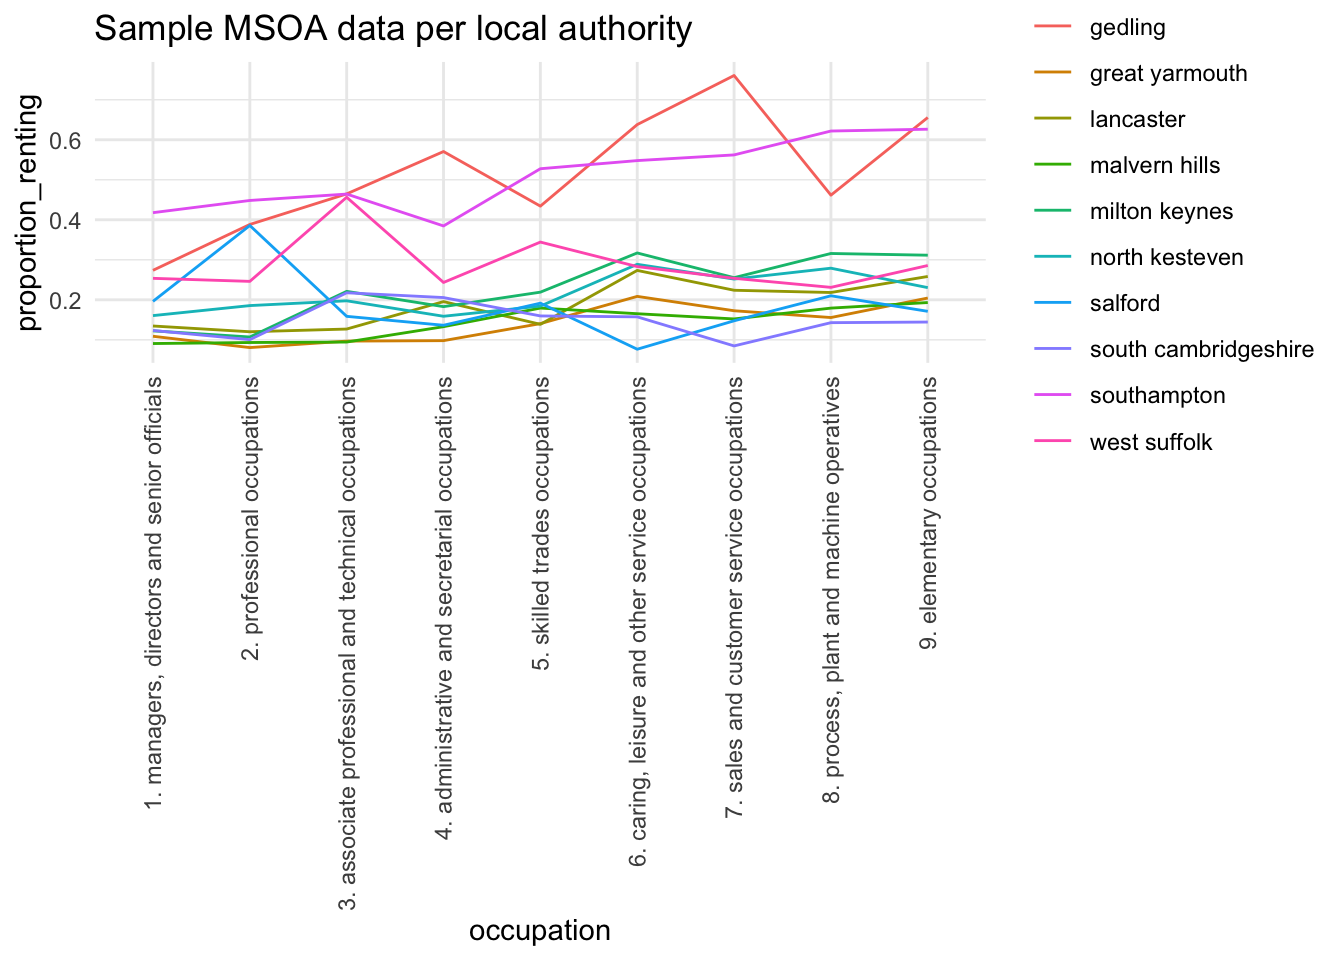
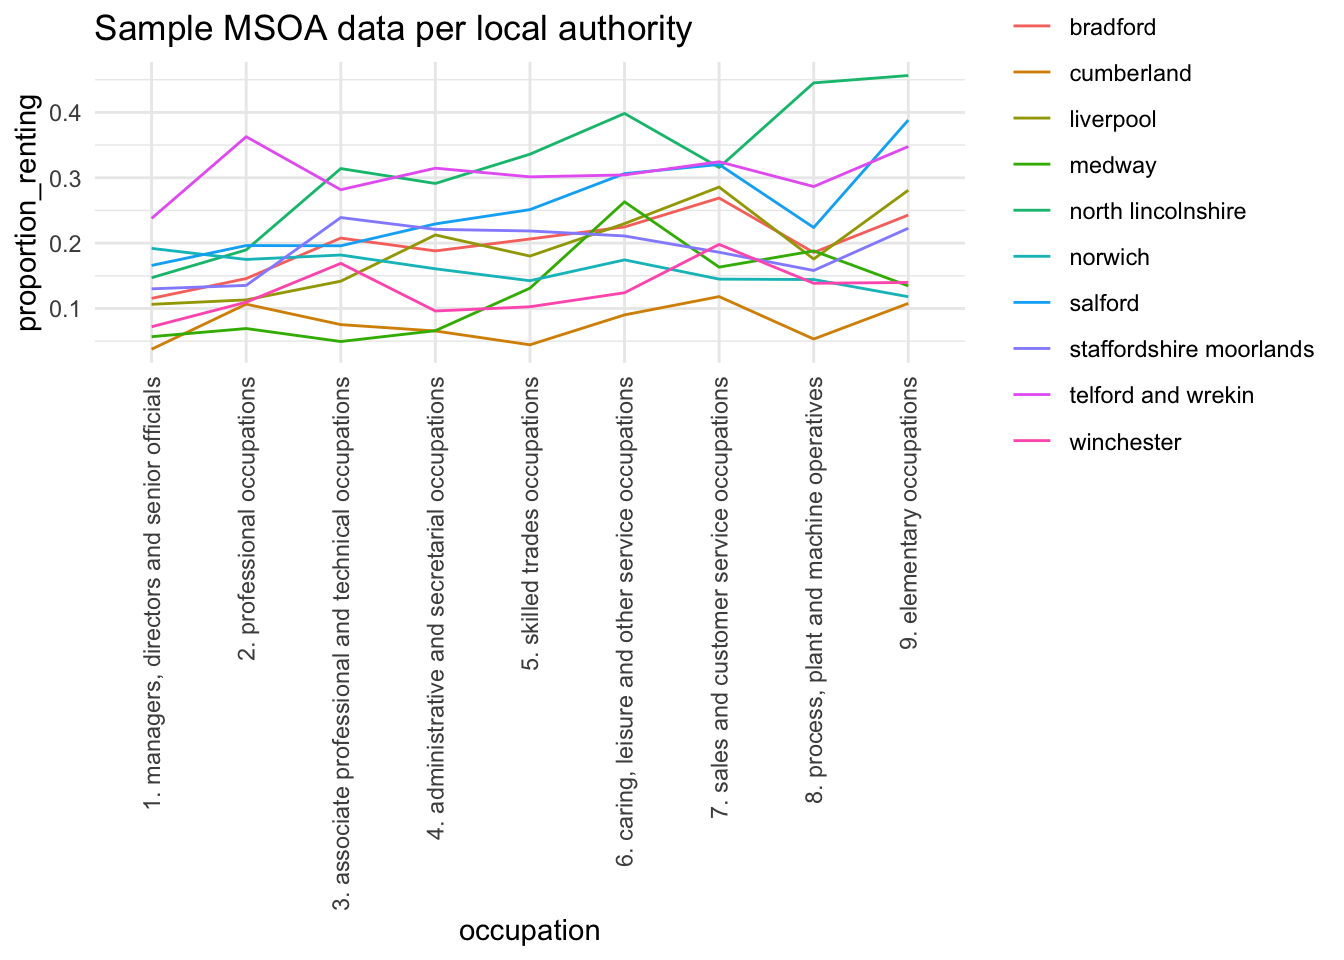
removing actuals from compound plot since error bars are not standard errors

diff --git a/docs/posts/occupation_impact_on_rentals/index.html b/docs/posts/occupation_impact_on_rentals/index.html
@@ -264,87 +264,87 @@ div.csl-indent {
 </thead>
 <tbody>
 <tr class="odd">
-<td style="text-align: left;">E02001721 : Newcastle upon Tyne 014</td>
-<td style="text-align: left;">549</td>
-<td style="text-align: left;">59</td>
-<td style="text-align: left;">103</td>
-<td style="text-align: left;">65</td>
-<td style="text-align: left;">46</td>
-<td style="text-align: left;">89</td>
-<td style="text-align: left;">52</td>
-<td style="text-align: left;">36</td>
-<td style="text-align: left;">47</td>
-<td style="text-align: left;">52</td>
-<td style="text-align: left;">Owns outright</td>
-</tr>
-<tr class="even">
-<td style="text-align: left;">E02000092 : Bexley 028</td>
-<td style="text-align: left;">254</td>
-<td style="text-align: left;">29</td>
-<td style="text-align: left;">43</td>
-<td style="text-align: left;">23</td>
-<td style="text-align: left;">48</td>
-<td style="text-align: left;">35</td>
-<td style="text-align: left;">20</td>
-<td style="text-align: left;">20</td>
-<td style="text-align: left;">16</td>
-<td style="text-align: left;">20</td>
-<td style="text-align: left;">Owns outright</td>
-</tr>
-<tr class="odd">
-<td style="text-align: left;">E02003977 : Barrow-in-Furness 001</td>
-<td style="text-align: left;">524</td>
-<td style="text-align: left;">56</td>
-<td style="text-align: left;">98</td>
-<td style="text-align: left;">50</td>
-<td style="text-align: left;">38</td>
-<td style="text-align: left;">89</td>
-<td style="text-align: left;">46</td>
-<td style="text-align: left;">41</td>
-<td style="text-align: left;">47</td>
-<td style="text-align: left;">59</td>
-<td style="text-align: left;">Owns outright</td>
-</tr>
-<tr class="even">
-<td style="text-align: left;">E02004544 : Harlow 001</td>
-<td style="text-align: left;">460</td>
+<td style="text-align: left;">E02005970 : South Oxfordshire 013</td>
+<td style="text-align: left;">322</td>
+<td style="text-align: left;">39</td>
 <td style="text-align: left;">74</td>
-<td style="text-align: left;">75</td>
-<td style="text-align: left;">62</td>
+<td style="text-align: left;">34</td>
+<td style="text-align: left;">44</td>
 <td style="text-align: left;">40</td>
-<td style="text-align: left;">64</td>
-<td style="text-align: left;">37</td>
+<td style="text-align: left;">20</td>
+<td style="text-align: left;">22</td>
 <td style="text-align: left;">25</td>
+<td style="text-align: left;">24</td>
+<td style="text-align: left;">Owns outright</td>
+</tr>
+<tr class="even">
+<td style="text-align: left;">E02002941 : Telford and Wrekin 014</td>
+<td style="text-align: left;">622</td>
+<td style="text-align: left;">48</td>
+<td style="text-align: left;">72</td>
+<td style="text-align: left;">57</td>
 <td style="text-align: left;">45</td>
-<td style="text-align: left;">38</td>
+<td style="text-align: left;">75</td>
+<td style="text-align: left;">77</td>
+<td style="text-align: left;">53</td>
+<td style="text-align: left;">98</td>
+<td style="text-align: left;">97</td>
 <td style="text-align: left;">Private rented or lives rent free</td>
 </tr>
 <tr class="odd">
-<td style="text-align: left;">E02000905 : Waltham Forest 011</td>
-<td style="text-align: left;">1262</td>
-<td style="text-align: left;">252</td>
-<td style="text-align: left;">452</td>
-<td style="text-align: left;">278</td>
-<td style="text-align: left;">72</td>
-<td style="text-align: left;">55</td>
-<td style="text-align: left;">44</td>
-<td style="text-align: left;">37</td>
-<td style="text-align: left;">41</td>
-<td style="text-align: left;">31</td>
+<td style="text-align: left;">E02004038 : Amber Valley 010</td>
+<td style="text-align: left;">999</td>
+<td style="text-align: left;">168</td>
+<td style="text-align: left;">307</td>
+<td style="text-align: left;">172</td>
+<td style="text-align: left;">69</td>
+<td style="text-align: left;">111</td>
+<td style="text-align: left;">46</td>
+<td style="text-align: left;">30</td>
+<td style="text-align: left;">57</td>
+<td style="text-align: left;">39</td>
 <td style="text-align: left;">Owns with a mortgage or loan or shared ownership</td>
 </tr>
 <tr class="even">
-<td style="text-align: left;">E02004977 : Watford 010</td>
-<td style="text-align: left;">1221</td>
-<td style="text-align: left;">71</td>
-<td style="text-align: left;">237</td>
-<td style="text-align: left;">116</td>
-<td style="text-align: left;">67</td>
-<td style="text-align: left;">173</td>
-<td style="text-align: left;">139</td>
-<td style="text-align: left;">73</td>
-<td style="text-align: left;">130</td>
-<td style="text-align: left;">215</td>
+<td style="text-align: left;">E02005702 : Northumberland 004</td>
+<td style="text-align: left;">450</td>
+<td style="text-align: left;">93</td>
+<td style="text-align: left;">118</td>
+<td style="text-align: left;">55</td>
+<td style="text-align: left;">40</td>
+<td style="text-align: left;">55</td>
+<td style="text-align: left;">32</td>
+<td style="text-align: left;">18</td>
+<td style="text-align: left;">18</td>
+<td style="text-align: left;">21</td>
+<td style="text-align: left;">Owns outright</td>
+</tr>
+<tr class="odd">
+<td style="text-align: left;">E02002837 : Leicester 011</td>
+<td style="text-align: left;">252</td>
+<td style="text-align: left;">15</td>
+<td style="text-align: left;">23</td>
+<td style="text-align: left;">9</td>
+<td style="text-align: left;">25</td>
+<td style="text-align: left;">27</td>
+<td style="text-align: left;">33</td>
+<td style="text-align: left;">24</td>
+<td style="text-align: left;">60</td>
+<td style="text-align: left;">36</td>
+<td style="text-align: left;">Owns outright</td>
+</tr>
+<tr class="even">
+<td style="text-align: left;">E02001112 : Oldham 015</td>
+<td style="text-align: left;">172</td>
+<td style="text-align: left;">16</td>
+<td style="text-align: left;">23</td>
+<td style="text-align: left;">29</td>
+<td style="text-align: left;">13</td>
+<td style="text-align: left;">21</td>
+<td style="text-align: left;">20</td>
+<td style="text-align: left;">8</td>
+<td style="text-align: left;">18</td>
+<td style="text-align: left;">24</td>
 <td style="text-align: left;">Private rented or lives rent free</td>
 </tr>
 </tbody>
@@ -388,7 +388,7 @@ div.csl-indent {
 <colgroup>
 <col style="width: 3%">
 <col style="width: 11%">
-<col style="width: 17%">
+<col style="width: 16%">
 <col style="width: 4%">
 <col style="width: 5%">
 <col style="width: 8%">
@@ -421,100 +421,100 @@ div.csl-indent {
 </thead>
 <tbody>
 <tr class="odd">
-<td style="text-align: left;">e02005594</td>
+<td style="text-align: left;">e02001426</td>
 <td style="text-align: left;">private rented or lives rent free</td>
-<td style="text-align: left;">9. elementary occupations</td>
-<td style="text-align: right;">120</td>
-<td style="text-align: right;">290</td>
+<td style="text-align: left;">7. sales and customer service occupations</td>
+<td style="text-align: right;">22</td>
+<td style="text-align: right;">80</td>
 <td style="text-align: right;">0</td>
-<td style="text-align: right;">142</td>
-<td style="text-align: right;">124</td>
-<td style="text-align: right;">132</td>
-<td style="text-align: right;">128</td>
-<td style="text-align: right;">12</td>
-<td style="text-align: right;">538</td>
-<td style="text-align: left;">e12000006</td>
-<td style="text-align: left;">norwich</td>
+<td style="text-align: right;">43</td>
+<td style="text-align: right;">50</td>
+<td style="text-align: right;">50</td>
+<td style="text-align: right;">57</td>
+<td style="text-align: right;">5</td>
+<td style="text-align: right;">205</td>
+<td style="text-align: left;">e12000002</td>
+<td style="text-align: left;">knowsley</td>
 </tr>
 <tr class="even">
-<td style="text-align: left;">e02001176</td>
-<td style="text-align: left;">private rented or lives rent free</td>
-<td style="text-align: left;">4. administrative and secretarial occupations</td>
-<td style="text-align: right;">76</td>
-<td style="text-align: right;">258</td>
-<td style="text-align: right;">0</td>
-<td style="text-align: right;">58</td>
-<td style="text-align: right;">135</td>
-<td style="text-align: right;">150</td>
-<td style="text-align: right;">166</td>
-<td style="text-align: right;">20</td>
-<td style="text-align: right;">529</td>
-<td style="text-align: left;">e12000002</td>
-<td style="text-align: left;">salford</td>
-</tr>
-<tr class="odd">
-<td style="text-align: left;">e02005706</td>
+<td style="text-align: left;">e02007100</td>
 <td style="text-align: left;">private rented or lives rent free</td>
 <td style="text-align: left;">1. managers, directors and senior officials</td>
-<td style="text-align: right;">44</td>
-<td style="text-align: right;">234</td>
+<td style="text-align: right;">42</td>
+<td style="text-align: right;">107</td>
 <td style="text-align: right;">0</td>
-<td style="text-align: right;">8</td>
-<td style="text-align: right;">47</td>
-<td style="text-align: right;">124</td>
-<td style="text-align: right;">138</td>
-<td style="text-align: right;">31</td>
-<td style="text-align: right;">348</td>
+<td style="text-align: right;">26</td>
+<td style="text-align: right;">48</td>
+<td style="text-align: right;">54</td>
+<td style="text-align: right;">24</td>
+<td style="text-align: right;">7</td>
+<td style="text-align: right;">159</td>
 <td style="text-align: left;">e12000001</td>
 <td style="text-align: left;">northumberland</td>
 </tr>
-<tr class="even">
-<td style="text-align: left;">e02003892</td>
+<tr class="odd">
+<td style="text-align: left;">e02002007</td>
 <td style="text-align: left;">private rented or lives rent free</td>
-<td style="text-align: left;">4. administrative and secretarial occupations</td>
-<td style="text-align: right;">16</td>
-<td style="text-align: right;">110</td>
+<td style="text-align: left;">1. managers, directors and senior officials</td>
+<td style="text-align: right;">23</td>
+<td style="text-align: right;">288</td>
 <td style="text-align: right;">0</td>
-<td style="text-align: right;">14</td>
-<td style="text-align: right;">38</td>
-<td style="text-align: right;">61</td>
-<td style="text-align: right;">107</td>
-<td style="text-align: right;">22</td>
-<td style="text-align: right;">242</td>
-<td style="text-align: left;">e12000009</td>
-<td style="text-align: left;">cornwall</td>
+<td style="text-align: right;">6</td>
+<td style="text-align: right;">84</td>
+<td style="text-align: right;">164</td>
+<td style="text-align: right;">148</td>
+<td style="text-align: right;">25</td>
+<td style="text-align: right;">427</td>
+<td style="text-align: left;">e12000005</td>
+<td style="text-align: left;">dudley</td>
+</tr>
+<tr class="even">
+<td style="text-align: left;">e02005300</td>
+<td style="text-align: left;">private rented or lives rent free</td>
+<td style="text-align: left;">6. caring, leisure and other service occupations</td>
+<td style="text-align: right;">18</td>
+<td style="text-align: right;">114</td>
+<td style="text-align: right;">0</td>
+<td style="text-align: right;">26</td>
+<td style="text-align: right;">47</td>
+<td style="text-align: right;">64</td>
+<td style="text-align: right;">87</td>
+<td style="text-align: right;">10</td>
+<td style="text-align: right;">234</td>
+<td style="text-align: left;">e12000002</td>
+<td style="text-align: left;">chorley</td>
 </tr>
 <tr class="odd">
-<td style="text-align: left;">e02002029</td>
+<td style="text-align: left;">e02006367</td>
 <td style="text-align: left;">private rented or lives rent free</td>
-<td style="text-align: left;">3. associate professional and technical occupations</td>
-<td style="text-align: right;">29</td>
-<td style="text-align: right;">228</td>
+<td style="text-align: left;">8. process, plant and machine operatives</td>
+<td style="text-align: right;">11</td>
+<td style="text-align: right;">49</td>
 <td style="text-align: right;">0</td>
-<td style="text-align: right;">29</td>
-<td style="text-align: right;">93</td>
-<td style="text-align: right;">174</td>
-<td style="text-align: right;">115</td>
-<td style="text-align: right;">13</td>
-<td style="text-align: right;">424</td>
-<td style="text-align: left;">e12000005</td>
-<td style="text-align: left;">bromsgrove</td>
+<td style="text-align: right;">6</td>
+<td style="text-align: right;">8</td>
+<td style="text-align: right;">19</td>
+<td style="text-align: right;">34</td>
+<td style="text-align: right;">4</td>
+<td style="text-align: right;">71</td>
+<td style="text-align: left;">e12000008</td>
+<td style="text-align: left;">mole valley</td>
 </tr>
 <tr class="even">
-<td style="text-align: left;">e02002145</td>
+<td style="text-align: left;">e02003391</td>
 <td style="text-align: left;">private rented or lives rent free</td>
-<td style="text-align: left;">5. skilled trades occupations</td>
-<td style="text-align: right;">49</td>
-<td style="text-align: right;">282</td>
+<td style="text-align: left;">2. professional occupations</td>
+<td style="text-align: right;">147</td>
+<td style="text-align: right;">777</td>
 <td style="text-align: right;">0</td>
-<td style="text-align: right;">32</td>
-<td style="text-align: right;">110</td>
-<td style="text-align: right;">143</td>
-<td style="text-align: right;">115</td>
-<td style="text-align: right;">13</td>
-<td style="text-align: right;">413</td>
-<td style="text-align: left;">e12000005</td>
-<td style="text-align: left;">sandwell</td>
+<td style="text-align: right;">57</td>
+<td style="text-align: right;">280</td>
+<td style="text-align: right;">678</td>
+<td style="text-align: right;">328</td>
+<td style="text-align: right;">37</td>
+<td style="text-align: right;">1380</td>
+<td style="text-align: left;">e12000008</td>
+<td style="text-align: left;">west berkshire</td>
 </tr>
 </tbody>
 </table>
@@ -1194,7 +1194,7 @@ Signif. codes:  0 '***' 0.001 '**' 0.01 '*' 0.05 '.' 0.1 ' ' 1</code></pre>
 </section>
 <section id="compound-effect-on-a-sample-of-msoa" class="level4">
 <h4 class="anchored" data-anchor-id="compound-effect-on-a-sample-of-msoa">Compound effect on a sample of MSOA</h4>
-<p>Supposing that a real estate investment firm wants to introduce new rental supply or wants to sell its existing portfolio in a location where the target consumer is employed as a <em>Professional</em> or in <em>Sales and service</em>, the elasticities associated with these changes can be estimated (as an example +/- 50 units change is demonstrated below). <br> This exercise is helpful with a test for the fact that new supply does not significantly change the underlying renting propensity (.pred). This would mean that under existing conditions, new supply can likely be absorbed by the market. <br> It is important to note that this evaluation is only from supply point of view. It is possible that price elasticity of supply can limit absorption much earlier than what is proposed here. Neverthless, the idea here tests for stability in the market and that may implicitly imply stability of some phenomenon that affect price elasticity.</p>
+<p>Supposing that a real estate investment firm wants to introduce new rental supply or wants to sell its existing portfolio in a location where the target consumer is employed as a <em>Professional</em> or in <em>Sales and service</em>, the elasticities associated with these changes can be estimated (as an example +/- 50 units change is demonstrated below). <br> This exercise is helpful with a test for the fact that new supply does not significantly change the underlying renting propensity. This would mean that under existing conditions, new supply can likely be absorbed by the market. <br> It is important to note that this evaluation is only from supply point of view. It is possible that price elasticity of supply can limit absorption much earlier than what is proposed here. Neverthless, the idea here tests for stability in the market and that may implicitly imply stability of some phenomenon that affect price elasticity.</p>
 <div class="cell">
 <div class="cell-output-display">
 <div>

diff --git a/docs/index.html b/docs/index.html
@@ -210,7 +210,7 @@ window.Quarto = {
     </div>
 </div>
 <div class="list quarto-listing-default">
[2 lines of base64/hex data omitted]
 <div class="thumbnail"><a href="./posts/occupation_impact_on_rentals/index.html" class="no-external">
 
 <img loading="lazy" src="./posts/occupation_impact_on_rentals/rentals_2021.png" class="thumbnail-image">
